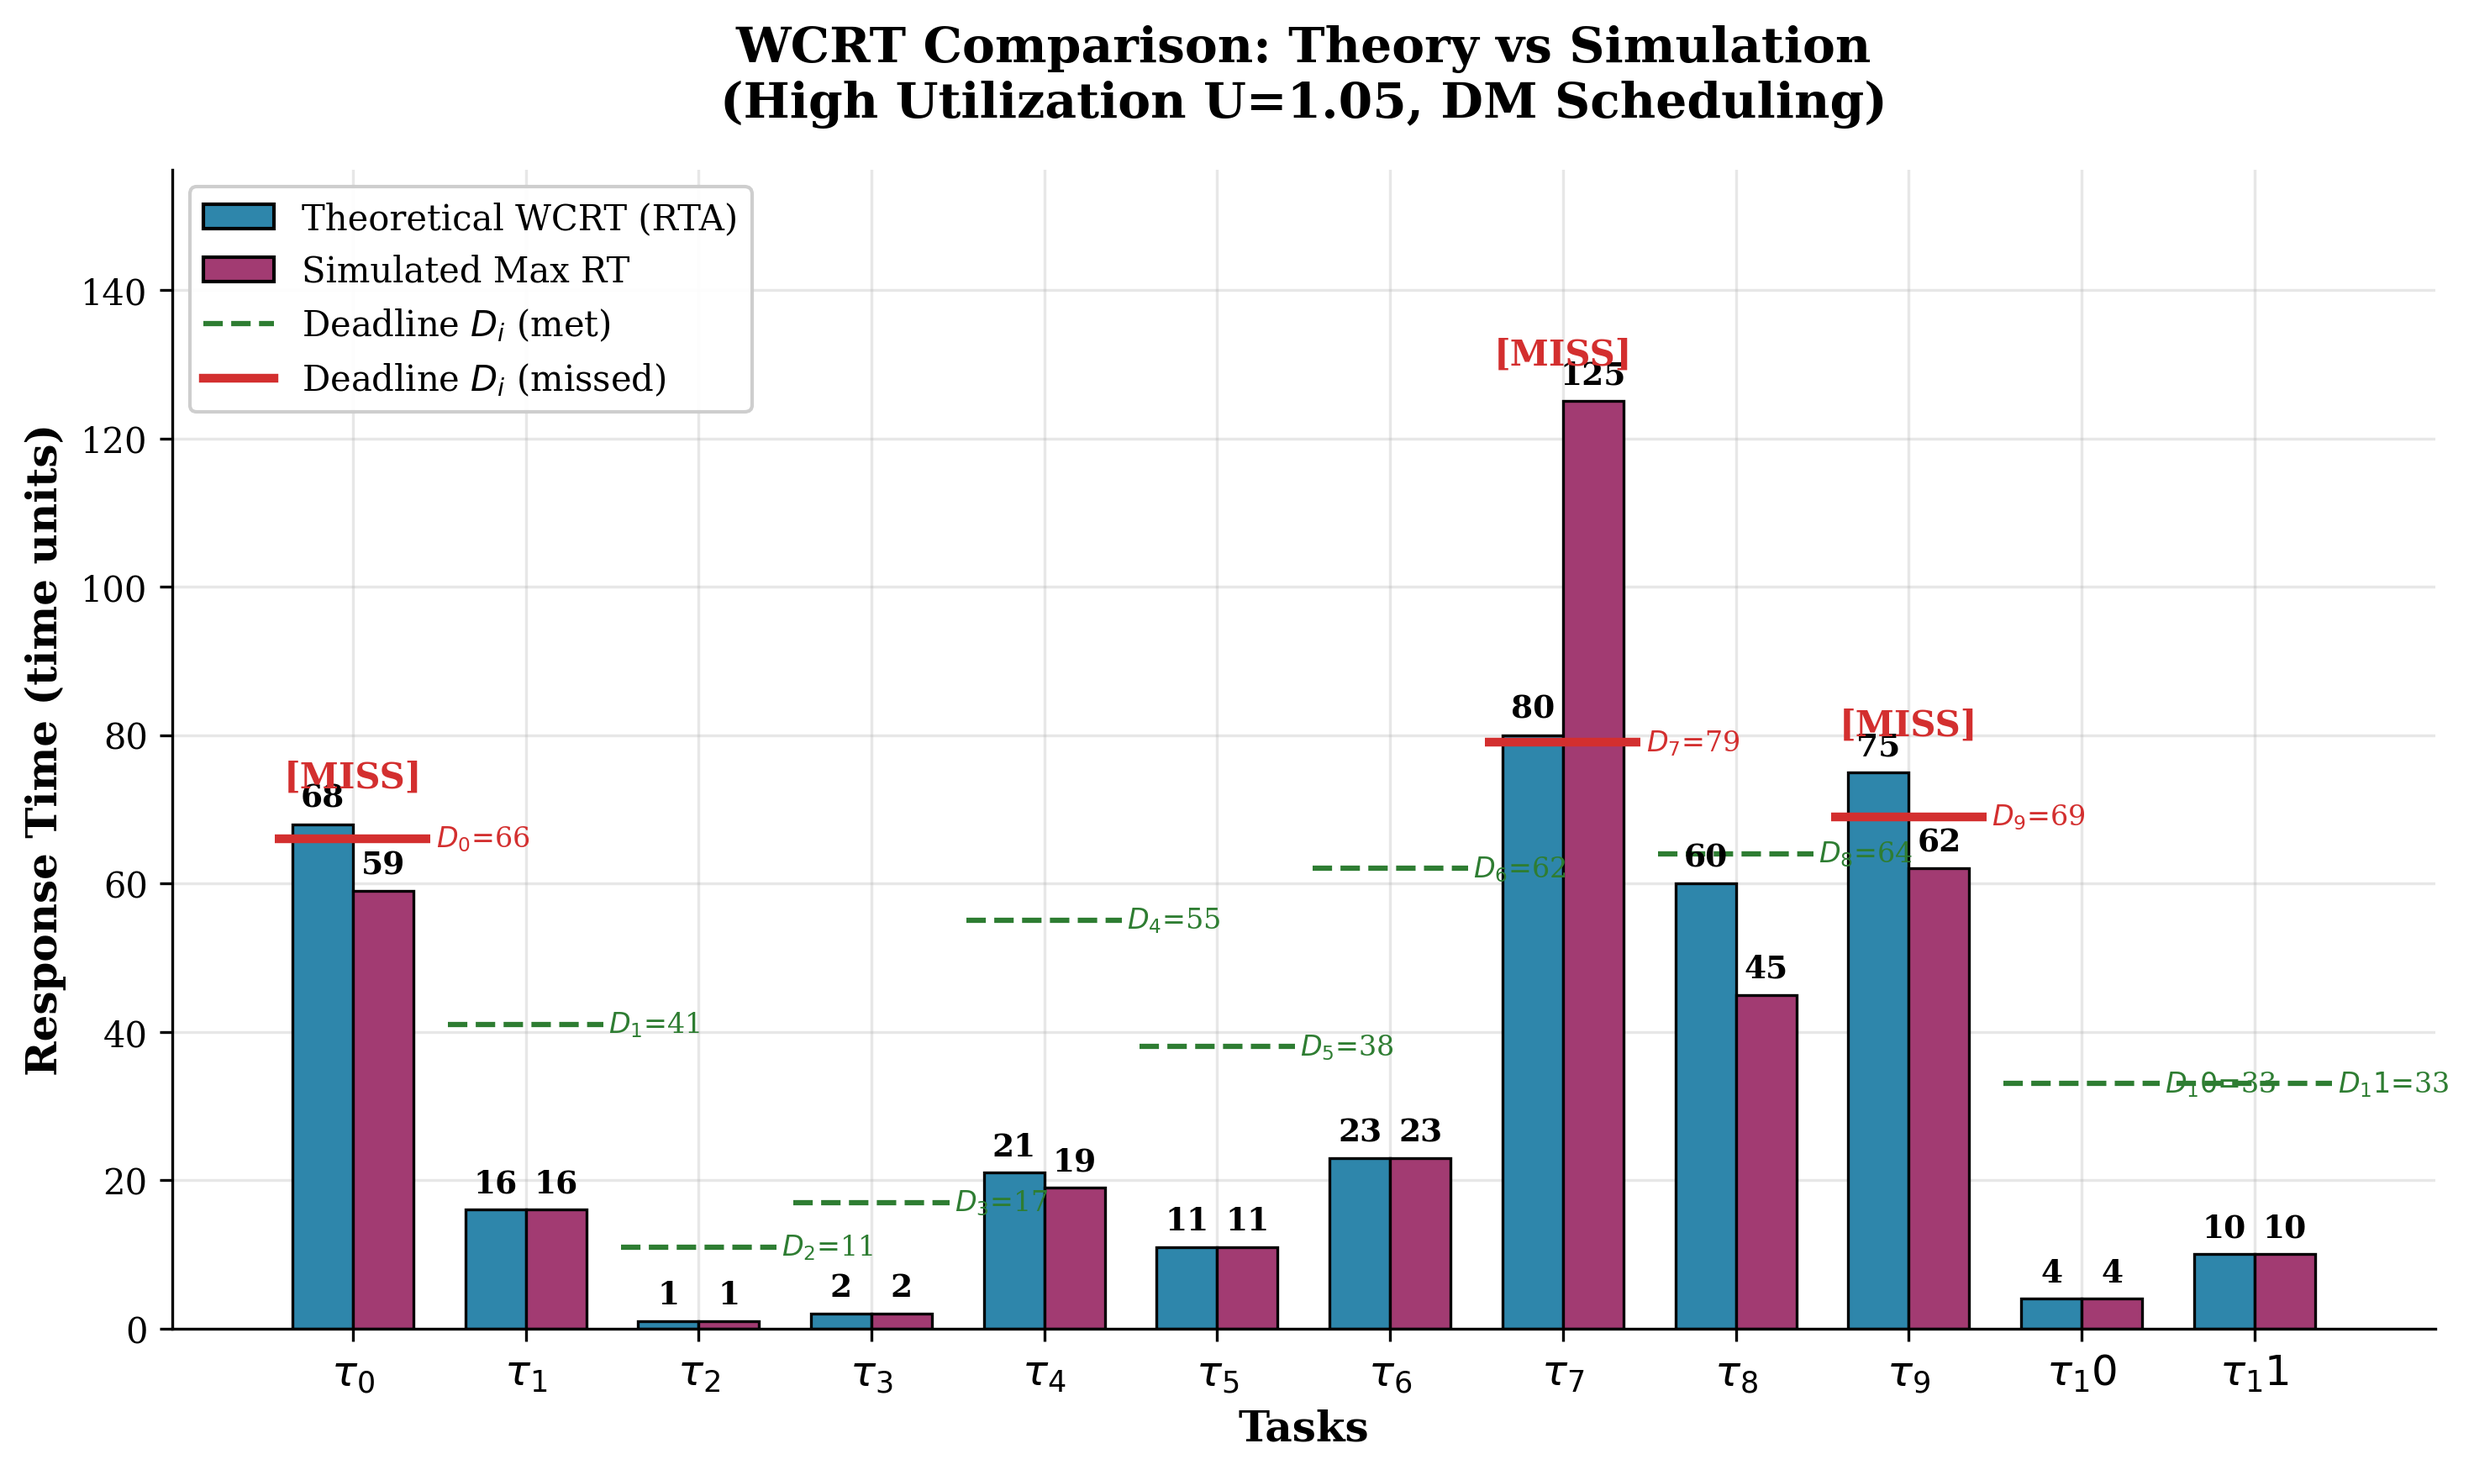
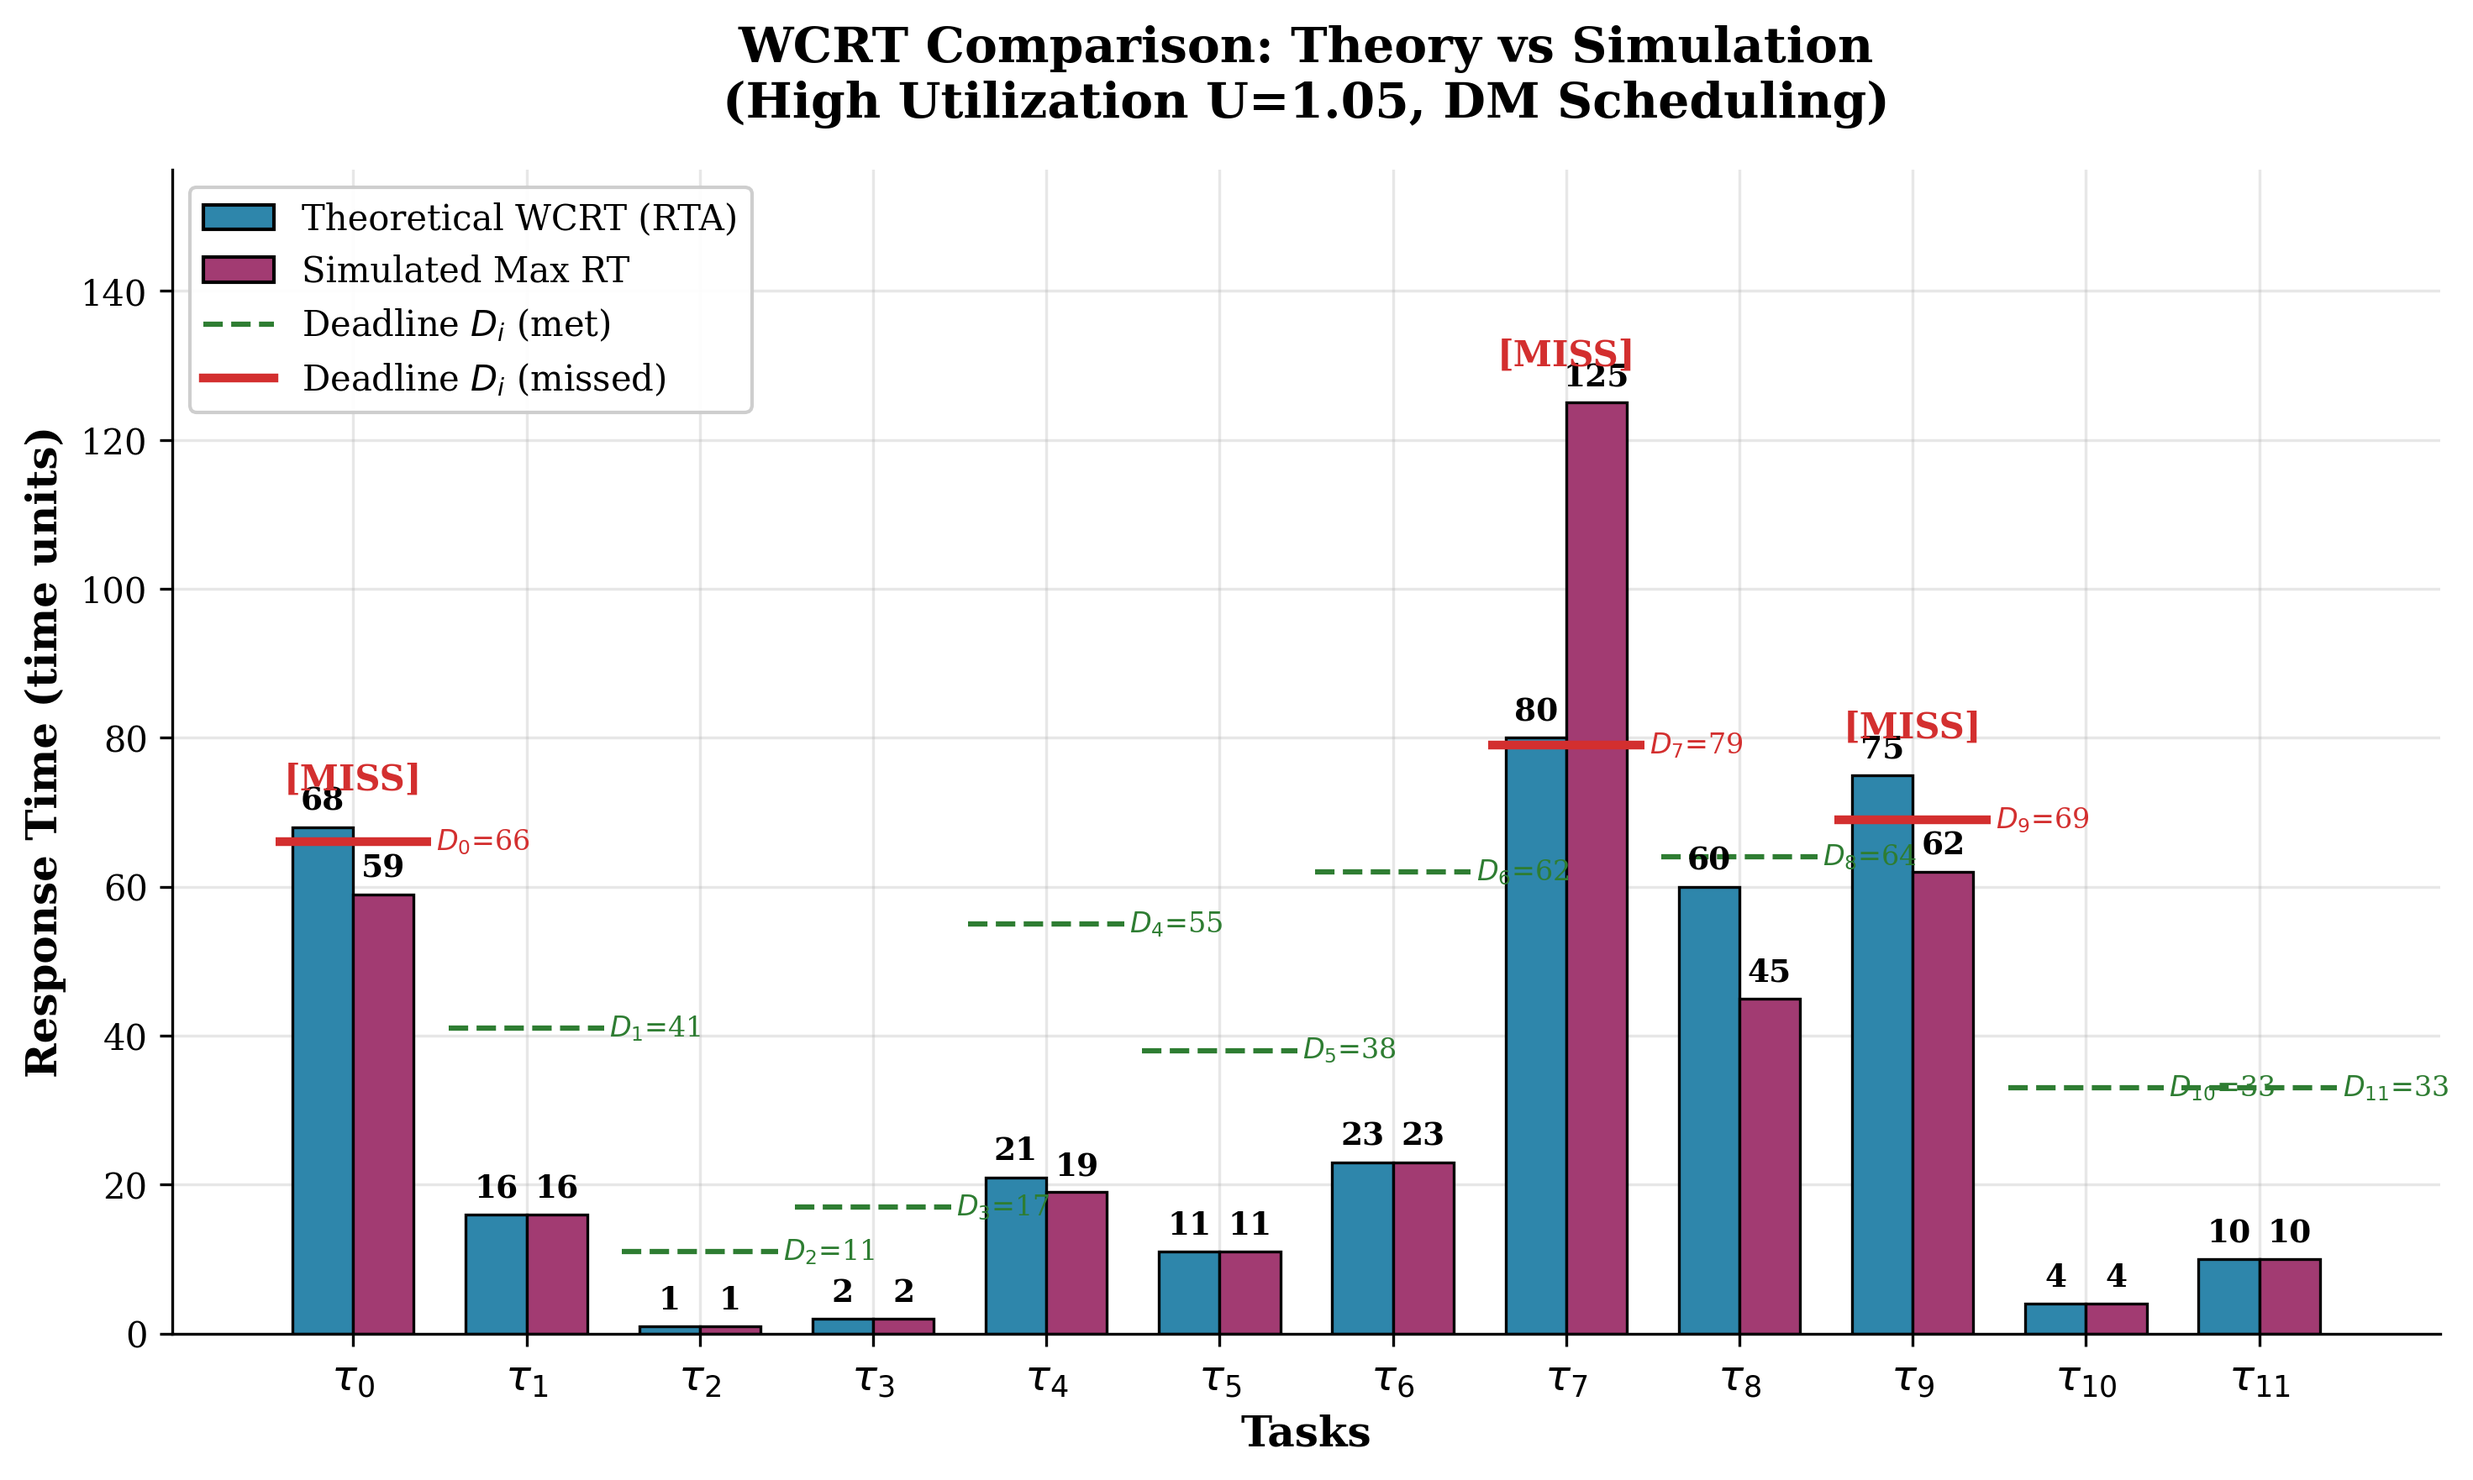
Fix type annotation mismatch and LaTeX subscript rendering in WCRT chart

diff --git a/mini_project_1/src/visualizer.py b/mini_project_1/src/visualizer.py
@@ -156,7 +156,7 @@ def plot_wcrt_comparison(
         
         # Add deadline label
         ax.annotate(
-            f'$D_{i}$={deadline}',
+            f'$D_{{{i}}}$={deadline}',
             xy=(i + 0.48, deadline),
             fontsize=8,
             color=line_color,
@@ -197,7 +197,7 @@ def plot_wcrt_comparison(
     ax.set_ylabel('Response Time (time units)', fontweight='bold')
     ax.set_title(title, fontweight='bold', pad=15)
     ax.set_xticks(x)
-    ax.set_xticklabels([f'$\\tau_{i}$' for i in range(n_tasks)], fontsize=12)
+    ax.set_xticklabels([f'$\\tau_{{{i}}}$' for i in range(n_tasks)], fontsize=12)
     
     # Custom legend
     legend_elements = [

diff --git a/mini_project_1/src/simulation.py b/mini_project_1/src/simulation.py
@@ -108,7 +108,7 @@ class TaskSimStats:
     jobs_completed: int = 0
     jobs_missed: int = 0
     max_response_time: int = 0      # Simulated WCRT
-    min_response_time: int = float('inf')
+    min_response_time: float = float('inf')
     total_response_time: int = 0    # For average calculation
     
     @property
